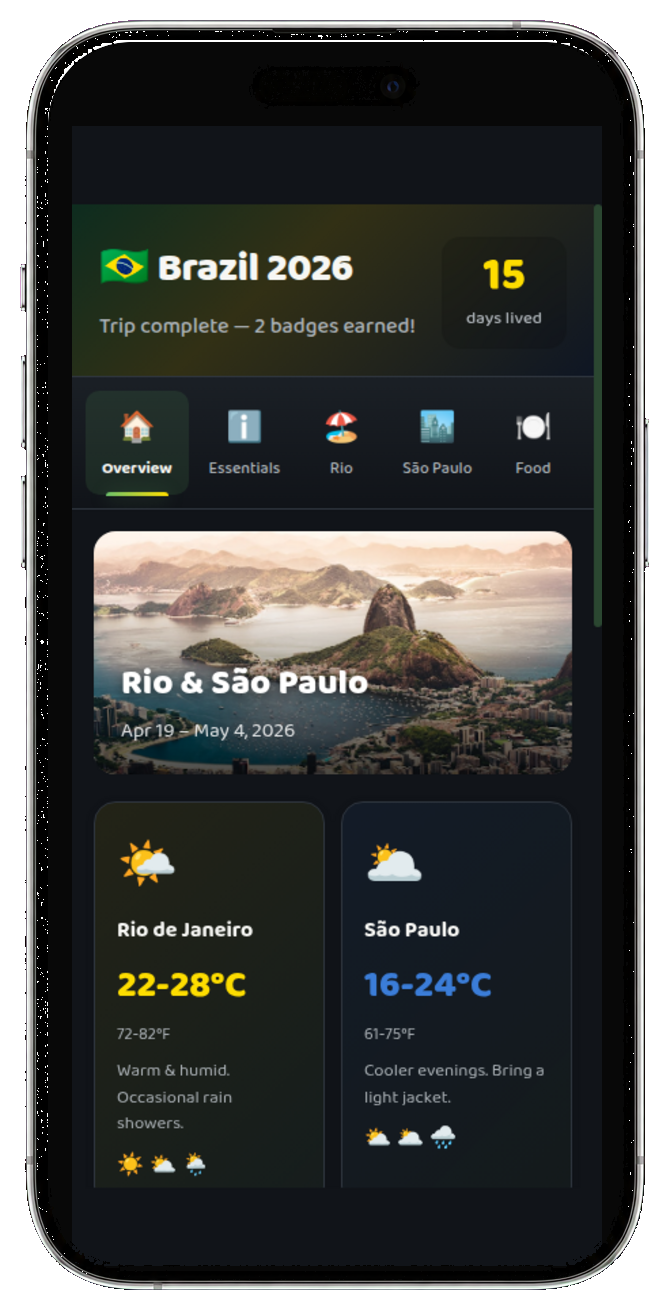
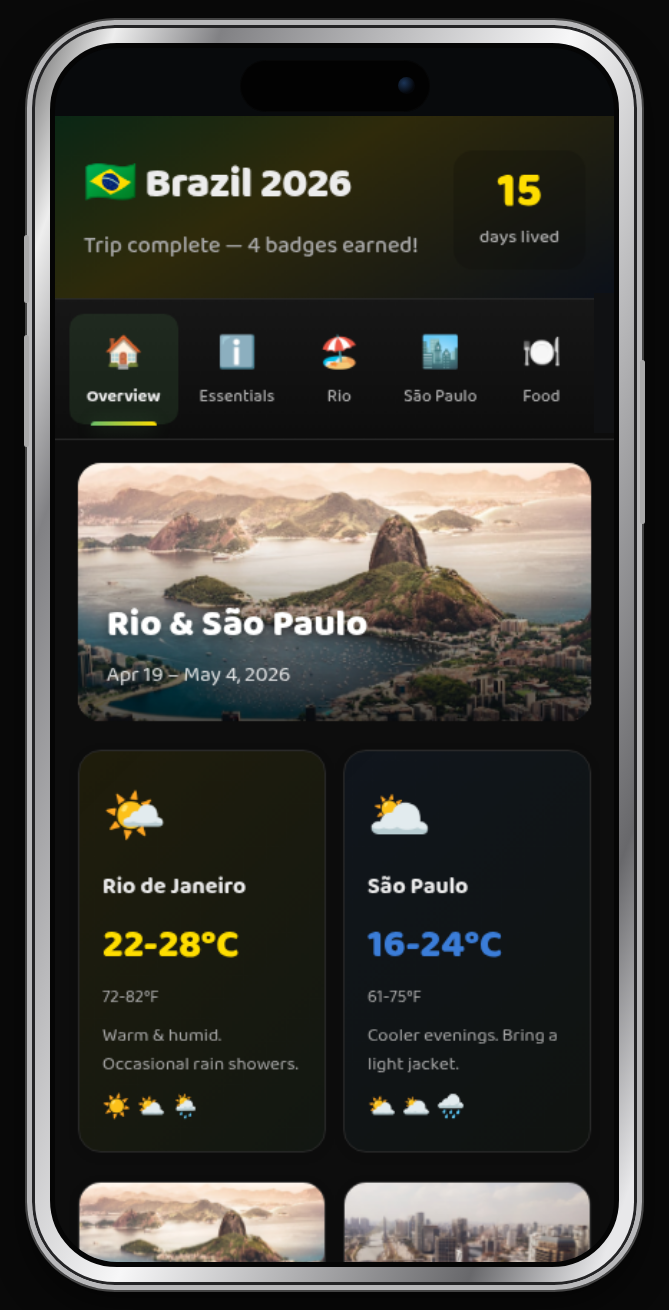
Refresh News and Brazil showcase captures

diff --git a/index.html b/index.html
@@ -144,7 +144,7 @@
         </article>
         <article class="news-story">
           <figure class="product-window news-media">
-            <img src="assets/product/news-digest.png" alt="News showing a curated daily digest across several days" loading="lazy" width="1060" height="520">
+            <img src="assets/product/news-digest.png" alt="News showing a World Cup digest with an Argentina semifinal summary" loading="lazy" width="1060" height="520">
           </figure>
           <p class="app-label">News · Daily briefing</p>
           <h3>Wake up to the stories worth your attention.</h3>
